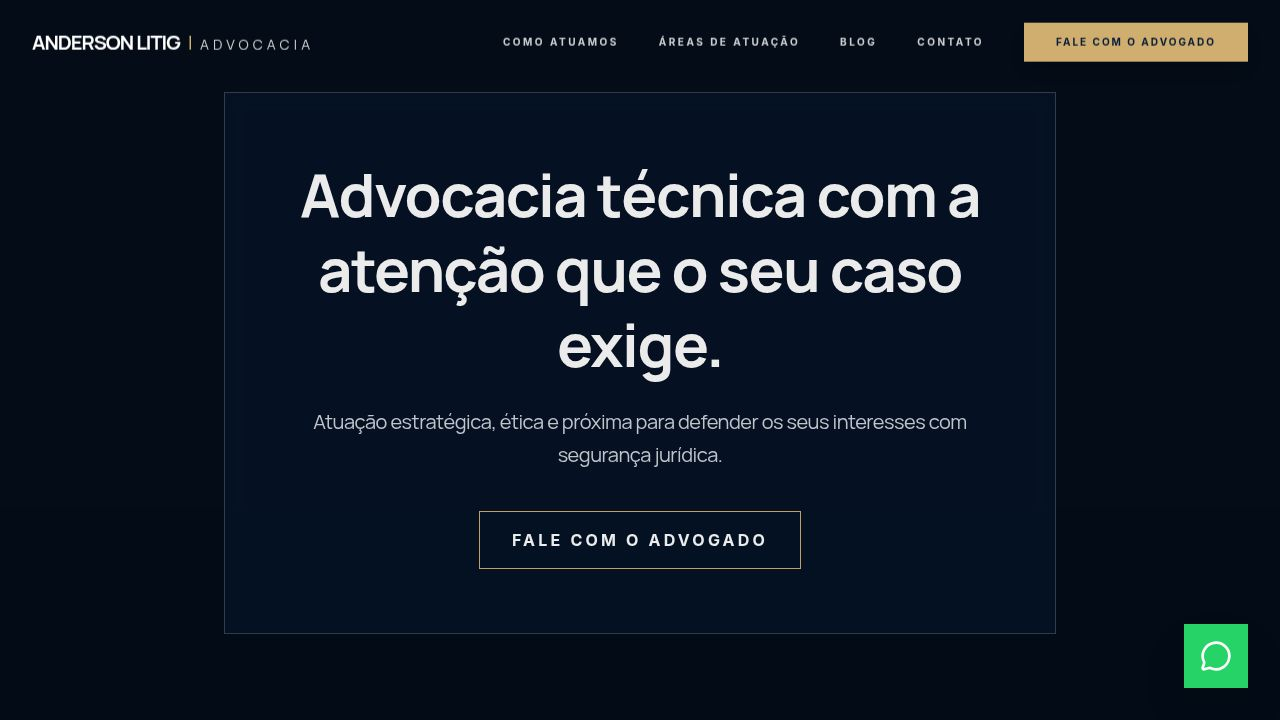
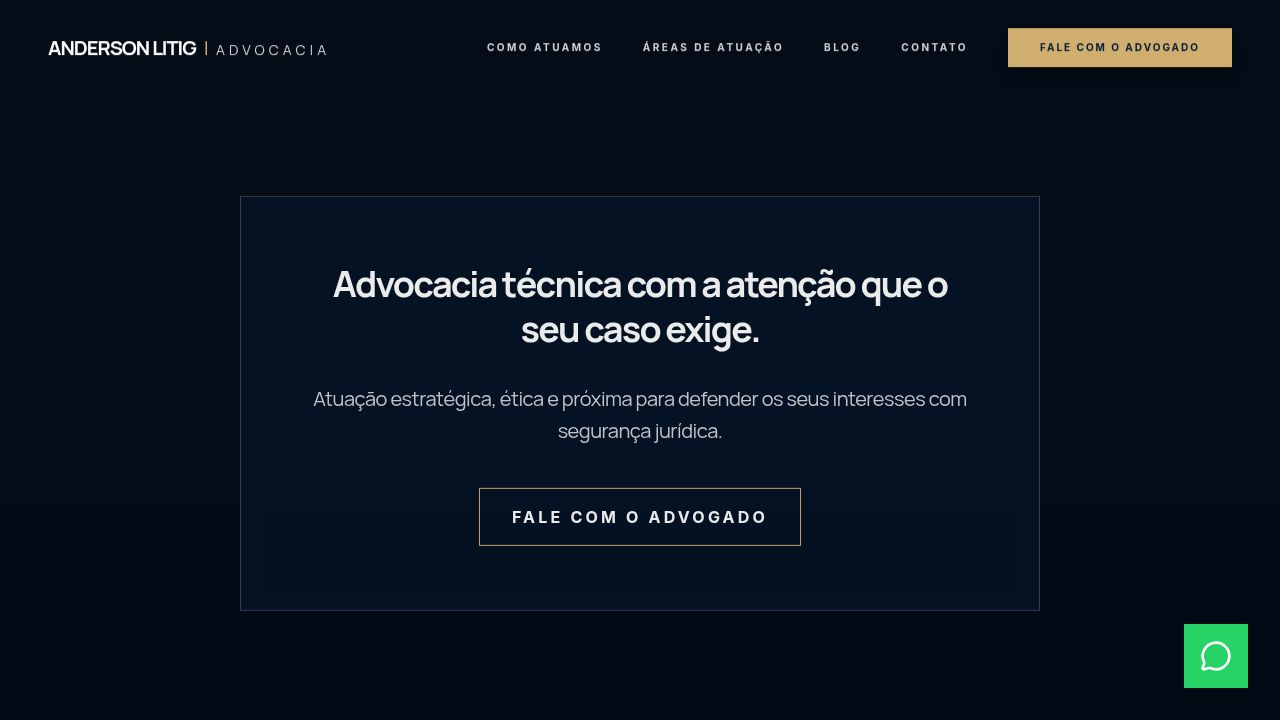
Update blog post cards to match the listing page design
Refactor client/src/components/sections/Blog.tsx to apply the card-based design from the blog listing page to the home page's blog section, including subtle borders, shadows on hover, category labels, and improved spacing.

Replit-Commit-Author: Agent
Replit-Commit-Session-Id: 23b49390-30ea-4093-8b5a-6eb2e8ed9dd5
Replit-Commit-Checkpoint-Type: full_checkpoint
Replit-Commit-Event-Id: 326f1cd7-7f93-4915-bdd2-264f65c38de5
Replit-Commit-Screenshot-Url: https://storage.googleapis.com/screenshot-production-us-central1/2fdf9d41-8b5a-4c76-85fa-762b9afee910/23b49390-30ea-4093-8b5a-6eb2e8ed9dd5/xby8jtA
Replit-Helium-Checkpoint-Created: true

diff --git a/client/src/components/sections/Blog.tsx b/client/src/components/sections/Blog.tsx
@@ -53,38 +53,42 @@ export default function Blog() {
           </Link>
         </div>
 
-        <div className="grid grid-cols-1 md:grid-cols-3 gap-8">
+        <div className="grid grid-cols-1 md:grid-cols-3 gap-12">
           {blogPosts.map((post) => (
             <Link key={post.id} href={post.path}>
               <motion.article 
-                className="group cursor-pointer"
+                className="group cursor-pointer flex flex-col h-full bg-white border border-gray-100 shadow-sm hover:shadow-xl transition-all duration-500"
                 whileHover={{ y: -10 }}
-                transition={{ duration: 0.3 }}
               >
-                <div className="relative aspect-video mb-6 overflow-hidden bg-gray-100">
+                <div className="relative aspect-video overflow-hidden bg-gray-100">
                   <img 
                     src={post.image} 
                     alt={post.title}
-                    className="w-full h-full object-cover grayscale group-hover:grayscale-0 transition-all duration-500 group-hover:scale-105"
+                    className="w-full h-full object-cover grayscale group-hover:grayscale-0 transition-all duration-700 group-hover:scale-105"
                   />
-                </div>
-                <div className="flex flex-col gap-1 mb-3">
-                  <div className="flex items-center gap-2 text-gray-400 text-[10px] uppercase tracking-widest">
-                    <Calendar size={12} className="text-[#CFAE70]" />
-                    {post.date}
-                  </div>
-                  <div className="text-[#CFAE70] text-[10px] font-bold uppercase tracking-[0.2em]">
+                  <div className="absolute top-4 left-4 bg-[#091D39] text-white px-3 py-1 text-[10px] font-bold uppercase tracking-widest">
                     {post.category}
                   </div>
                 </div>
-                <h3 className="text-xl font-bold text-[#091D39] mb-4 group-hover:text-[#CFAE70] transition-colors leading-snug">
-                  {post.title}
-                </h3>
-                <p className="text-gray-500 text-sm leading-relaxed mb-6 line-clamp-2">
-                  {post.excerpt}
-                </p>
-                <div className="flex items-center gap-2 text-[#091D39] font-bold text-xs uppercase tracking-widest">
-                  Ler Artigo <ArrowRight size={14} />
+                
+                <div className="p-8 flex flex-col flex-grow">
+                  <div className="flex items-center gap-2 text-gray-400 text-[10px] uppercase tracking-widest mb-4 font-bold">
+                    <Calendar size={12} className="text-[#CFAE70]" />
+                    {post.date}
+                  </div>
+                  
+                  <h3 className="text-xl font-bold text-[#091D39] mb-4 group-hover:text-[#CFAE70] transition-colors leading-tight font-heading uppercase tracking-tighter">
+                    {post.title}
+                  </h3>
+                  
+                  <p className="text-gray-500 text-sm leading-relaxed mb-8 line-clamp-3">
+                    {post.excerpt}
+                  </p>
+                  
+                  <div className="mt-auto pt-6 border-t border-gray-100 flex items-center justify-between group-hover:border-[#CFAE70]/20 transition-colors">
+                    <span className="text-[#091D39] font-bold text-xs uppercase tracking-widest">Ler Artigo</span>
+                    <ArrowRight size={18} className="text-[#CFAE70] group-hover:translate-x-2 transition-transform" />
+                  </div>
                 </div>
               </motion.article>
             </Link>
